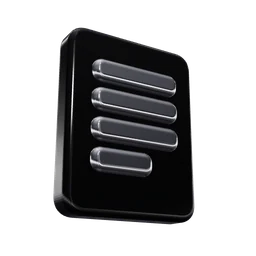
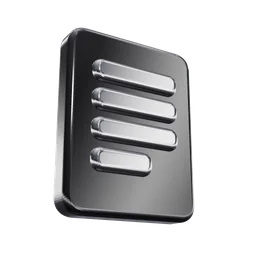
Section symbols: all re-rendered glossy (a streak of light on every face), round bullseye with no bite, person symbol with proper shoulders
Claude-Session: https://claude.ai/code/session_01R4Yd9DXFZUHxv4JskfZizu

Changed region(s): [[0.1875, 0.0938, 0.7812, 0.875]]

diff --git a/src/archive/gloss-scene.html b/src/archive/gloss-scene.html
@@ -1,0 +1,155 @@
+<!doctype html><html><body style="margin:0;background:transparent">
+<canvas id="c" width="512" height="512"></canvas>
+<script src="three.min.js"></script>
+<script>
+const W = 512;
+const renderer = new THREE.WebGLRenderer({ canvas: document.getElementById('c'), antialias: true, alpha: true, preserveDrawingBuffer: true });
+renderer.setPixelRatio(1); renderer.setSize(W, W, false);
+renderer.outputEncoding = THREE.sRGBEncoding; renderer.toneMapping = THREE.ACESFilmicToneMapping; renderer.toneMappingExposure = 1.2;
+renderer.physicallyCorrectLights = true;
+// a studio made of soft light panels, for reflections
+function studio() {
+  const s = new THREE.Scene();
+  s.background = new THREE.Color(0x0b0b0c);
+  const panel = (w, h, x, y, z, ry, rx, c, k) => { const m = new THREE.Mesh(new THREE.PlaneGeometry(w, h), new THREE.MeshBasicMaterial({ color: new THREE.Color(c).multiplyScalar(k), side: THREE.DoubleSide })); m.position.set(x, y, z); m.rotation.y = ry; m.rotation.x = rx; s.add(m); };
+  panel(16, .7, 0, 6, 0, 0, Math.PI / 2, 0xffffff, 7);         // thin top strip
+  panel(16, .5, 0, 5, -3, 0, Math.PI / 2.2, 0xffffff, 5);
+  panel(.9, 12, -7, 0, 3, Math.PI / 2.3, 0, 0xffffff, 5);       // left strip
+  panel(.6, 10, 7, 0, 1, -Math.PI / 2.3, 0, 0xdfe6ff, 3);       // right strip, cool
+  panel(30, 30, 0, -7, 0, 0, -Math.PI / 2, 0x2a2a2e, 1);        // dark grey floor (darker lower reflections)
+  panel(4, 2, 3, 2, -8, 0, 0, 0xfff1e0, 2);                     // small warm card behind
+  return s;
+}
+const pm = new THREE.PMREMGenerator(renderer);
+// the studio as a painted panorama: dark sky, a bright horizon, dark floor and a few softbox strips (the classic chrome look)
+function pano() {
+  const c = document.createElement('canvas'); c.width = 2048; c.height = 1024; const x = c.getContext('2d');
+  const gr = x.createLinearGradient(0, 0, 0, 1024);
+  gr.addColorStop(0, '#c4c4ca'); gr.addColorStop(.22, '#6a6a70'); gr.addColorStop(.42, '#232327'); gr.addColorStop(.49, '#ffffff'); gr.addColorStop(.52, '#d6d6db');
+  gr.addColorStop(.6, '#46464b'); gr.addColorStop(.8, '#1a1a1d'); gr.addColorStop(1, '#55555a');
+  x.fillStyle = gr; x.fillRect(0, 0, 2048, 1024);
+  const strip = (cx, w, y0, y1, a, col) => { const g = x.createLinearGradient(cx - w, 0, cx + w, 0); g.addColorStop(0, 'rgba(0,0,0,0)'); g.addColorStop(.5, col.replace('A', a)); g.addColorStop(1, 'rgba(0,0,0,0)'); x.fillStyle = g; x.fillRect(cx - w, y0, w * 2, y1 - y0); };
+  strip(300, 110, 60, 480, 1, 'rgba(255,255,255,A)'); strip(760, 26, 160, 460, .9, 'rgba(255,255,255,A)');
+  strip(1300, 140, 60, 480, .9, 'rgba(225,232,255,A)'); strip(1750, 40, 200, 470, .7, 'rgba(255,240,224,A)');
+  x.fillStyle = 'rgba(255,255,255,.95)'; x.fillRect(0, 60, 2048, 18);
+  { x.save(); x.translate(1120, 390); x.rotate(-.75); const lg = x.createLinearGradient(-70, 0, 70, 0); lg.addColorStop(0, 'rgba(255,255,255,0)'); lg.addColorStop(.35, 'rgba(255,255,255,.75)'); lg.addColorStop(.5, 'rgba(255,255,255,1)'); lg.addColorStop(.65, 'rgba(255,255,255,.75)'); lg.addColorStop(1, 'rgba(255,255,255,0)'); x.fillStyle = lg; x.fillRect(-70, -300, 140, 600); x.restore(); }   // a diagonal streak of light behind the camera: every face turned to the viewer shows a glossy highlight
+  const t = new THREE.CanvasTexture(c); t.mapping = THREE.EquirectangularReflectionMapping; t.encoding = THREE.sRGBEncoding; return t;
+}
+const envTex = pm.fromEquirectangular(pano()).texture;
+const scene = new THREE.Scene(); scene.environment = envTex;
+const cam = new THREE.PerspectiveCamera(30, 1, .1, 100); cam.position.set(0, 0, 9); cam.lookAt(0, 0, 0);
+const key = new THREE.DirectionalLight(0xffffff, .6); key.position.set(3, 5, 6); scene.add(key);
+const chrome = () => new THREE.MeshPhysicalMaterial({ color: 0xe8e8ea, metalness: 1, roughness: .06, clearcoat: 1, clearcoatRoughness: .05, envMapIntensity: 1.25 });
+const black = () => new THREE.MeshPhysicalMaterial({ color: 0x030303, metalness: .1, roughness: .1, clearcoat: 1, clearcoatRoughness: .03, envMapIntensity: 2.6 });
+const rbox = (w, h, d, r, mat) => { const s = new THREE.Shape(); const x = -w / 2, y = -h / 2;
+  s.moveTo(x + r, y); s.lineTo(x + w - r, y); s.quadraticCurveTo(x + w, y, x + w, y + r); s.lineTo(x + w, y + h - r); s.quadraticCurveTo(x + w, y + h, x + w - r, y + h);
+  s.lineTo(x + r, y + h); s.quadraticCurveTo(x, y + h, x, y + h - r); s.lineTo(x, y + r); s.quadraticCurveTo(x, y, x + r, y);
+  const g = new THREE.ExtrudeGeometry(s, { depth: d, bevelEnabled: true, bevelThickness: .12, bevelSize: .12, bevelSegments: 8, curveSegments: 16 }); g.center(); return new THREE.Mesh(g, mat); };
+const G = new THREE.Group(); scene.add(G);
+const ICONS = {
+  // 01 draft: a pencil
+  draft() { const g = new THREE.Group(); const body = new THREE.Mesh(new THREE.CylinderGeometry(.42, .42, 3.2, 6), black()); g.add(body);
+    const tip = new THREE.Mesh(new THREE.ConeGeometry(.42, .9, 6), chrome()); tip.position.y = -2.05; tip.rotation.z = Math.PI; g.add(tip);
+    const band = new THREE.Mesh(new THREE.CylinderGeometry(.45, .45, .5, 24), chrome()); band.position.y = 1.55; g.add(band);
+    const er = new THREE.Mesh(new THREE.CylinderGeometry(.4, .4, .4, 24), black()); er.position.y = 1.95; g.add(er);
+    g.rotation.z = -.75; return g; },
+  // 02 iterate: two looping arrows
+  loop() { const g = new THREE.Group(); const t = new THREE.Mesh(new THREE.TorusGeometry(1.4, .28, 32, 96, Math.PI * 1.55), chrome()); t.rotation.z = .5; g.add(t);
+    const h = new THREE.Mesh(new THREE.ConeGeometry(.6, .9, 32), chrome()); const a = .5 + Math.PI * 1.55; h.position.set(Math.cos(a) * 1.4, Math.sin(a) * 1.4, 0); h.rotation.z = a; g.add(h); return g; },
+  // 03 delivery: a check mark
+  check() { const g = new THREE.Group(); const a = rbox(.75, 1.7, .5, .3, chrome()); a.position.set(-.75, -.35, 0); a.rotation.z = .8; g.add(a);
+    const b = rbox(.75, 3.2, .5, .3, chrome()); b.position.set(.55, .35, 0); b.rotation.z = -.62; g.add(b); return g; },
+  // tools
+  mail() { const g = new THREE.Group(); g.add(rbox(3.4, 2.3, .4, .25, black()));
+    const f1 = rbox(2.2, .22, .2, .1, chrome()); f1.position.set(-.62, .3, .35); f1.rotation.z = -.62; g.add(f1);
+    const f2 = rbox(2.2, .22, .2, .1, chrome()); f2.position.set(.62, .3, .35); f2.rotation.z = .62; g.add(f2); return g; },
+  calendar() { const g = new THREE.Group(); g.add(rbox(3, 2.8, .45, .3, black())); const top = rbox(3, .7, .5, .25, chrome()); top.position.set(0, 1.05, .05); g.add(top);
+    for (const x of [-.8, .8]) { const r = new THREE.Mesh(new THREE.TorusGeometry(.24, .09, 16, 40), chrome()); r.position.set(x, 1.5, .3); g.add(r); }
+    for (let i = 0; i < 6; i++) { const d = rbox(.42, .42, .15, .1, chrome()); d.position.set(-.85 + (i % 3) * .85, .05 - Math.floor(i / 3) * .7, .35); g.add(d); } return g; },
+  card() { const g = new THREE.Group(); g.add(rbox(3.6, 2.3, .22, .25, black())); const s = rbox(3.6, .45, .1, .02, chrome()); s.position.set(0, .45, .2); g.add(s);
+    const chip = rbox(.6, .45, .1, .08, chrome()); chip.position.set(-1.1, -.35, .22); g.add(chip); g.rotation.x = -.25; return g; },
+  signup() { const g = new THREE.Group(); const t = new THREE.Mesh(new THREE.TorusGeometry(1.25, .26, 32, 96, Math.PI * 1.75), chrome()); t.rotation.z = -.3; g.add(t);
+    const i = new THREE.Mesh(new THREE.TorusGeometry(.5, .24, 32, 64), chrome()); g.add(i); const tail = rbox(.48, 1.1, .48, .2, chrome()); tail.position.set(.98, -.2, 0); g.add(tail); return g; },
+  pin() { const g = new THREE.Group(); const s = new THREE.Mesh(new THREE.SphereGeometry(1.1, 64, 48), chrome()); s.position.y = .5; g.add(s);
+    const c = new THREE.Mesh(new THREE.ConeGeometry(.82, 1.9, 64), chrome()); c.position.y = -.85; c.rotation.z = Math.PI; g.add(c);
+    const h = new THREE.Mesh(new THREE.SphereGeometry(.4, 48, 32), black()); h.position.set(0, .5, .85); g.add(h); return g; },
+  gear() { const g = new THREE.Group(); const disc = new THREE.Mesh(new THREE.CylinderGeometry(1.25, 1.25, .55, 64), chrome()); disc.rotation.x = Math.PI / 2; g.add(disc);
+    for (let i = 0; i < 8; i++) { const t = rbox(.55, .6, .55, .1, chrome()); const a = i / 8 * Math.PI * 2; t.position.set(Math.cos(a) * 1.4, Math.sin(a) * 1.4, -.27); t.rotation.z = a - Math.PI / 2; g.add(t); }
+    const hole = new THREE.Mesh(new THREE.CylinderGeometry(.48, .48, .62, 48), black()); hole.rotation.x = Math.PI / 2; g.add(hole); return g; },
+  coin() { const g = new THREE.Group(); const c = new THREE.Mesh(new THREE.CylinderGeometry(1.5, 1.5, .4, 72), chrome()); c.rotation.x = Math.PI / 2; g.add(c);
+    const rim = new THREE.Mesh(new THREE.TorusGeometry(1.5, .1, 16, 72), chrome()); g.add(rim);
+    const face = new THREE.Mesh(new THREE.CylinderGeometry(1.15, 1.15, .44, 72), black()); face.rotation.x = Math.PI / 2; g.add(face);
+    const s1 = new THREE.Mesh(new THREE.TorusGeometry(.32, .1, 16, 48, Math.PI * 1.3), chrome()); s1.position.set(0, .28, .25); s1.rotation.z = .4; g.add(s1);
+    const s2 = new THREE.Mesh(new THREE.TorusGeometry(.32, .1, 16, 48, Math.PI * 1.3), chrome()); s2.position.set(0, -.28, .25); s2.rotation.z = .4 + Math.PI; g.add(s2);
+    const bar = rbox(.12, 1.5, .12, .05, chrome()); bar.position.set(0, 0, .27); g.add(bar); g.rotation.y = -.35; return g; },
+  sparkle() { const g = new THREE.Group(); const sh = new THREE.Shape(); const R = 1.6, r = .38;
+    for (let i = 0; i < 8; i++) { const a = i / 8 * Math.PI * 2 + Math.PI / 2, rr = i % 2 ? r : R; const x = Math.cos(a) * rr, y = Math.sin(a) * rr; i ? sh.lineTo(x, y) : sh.moveTo(x, y); } sh.closePath();
+    const geo = new THREE.ExtrudeGeometry(sh, { depth: .35, bevelEnabled: true, bevelThickness: .14, bevelSize: .1, bevelSegments: 6 }); geo.center(); g.add(new THREE.Mesh(geo, chrome()));
+    const sm = new THREE.Mesh(geo.clone().scale(.38, .38, .38), black()); sm.position.set(1.25, 1.1, .2); g.add(sm); return g; },
+  shield() { const g = new THREE.Group(); const sh = new THREE.Shape(); sh.moveTo(0, 1.7); sh.quadraticCurveTo(1.0, 1.35, 1.45, 1.35); sh.lineTo(1.45, .1); sh.quadraticCurveTo(1.35, -1.2, 0, -1.8); sh.quadraticCurveTo(-1.35, -1.2, -1.45, .1); sh.lineTo(-1.45, 1.35); sh.quadraticCurveTo(-1.0, 1.35, 0, 1.7);
+    const geo = new THREE.ExtrudeGeometry(sh, { depth: .45, bevelEnabled: true, bevelThickness: .16, bevelSize: .12, bevelSegments: 8, curveSegments: 24 }); geo.center(); g.add(new THREE.Mesh(geo, black()));
+    const a = rbox(.32, .8, .25, .12, chrome()); a.position.set(-.32, -.12, .42); a.rotation.z = .8; g.add(a); const b = rbox(.32, 1.45, .25, .12, chrome()); b.position.set(.28, .12, .42); b.rotation.z = -.62; g.add(b); return g; },
+  chain() { const g = new THREE.Group(); const l1 = new THREE.Mesh(new THREE.TorusGeometry(.95, .26, 24, 72), chrome()); l1.scale.set(1.25, .75, 1); l1.position.x = -.75; l1.rotation.z = .5; g.add(l1);
+    const l2 = new THREE.Mesh(new THREE.TorusGeometry(.95, .26, 24, 72), black()); l2.scale.set(1.25, .75, 1); l2.position.x = .75; l2.rotation.set(Math.PI / 2.4, 0, .5); g.add(l2); return g; },
+  userplus() { const g = new THREE.Group(); const head = new THREE.Mesh(new THREE.SphereGeometry(.62, 64, 48), chrome()); head.position.set(-.45, .78, 0); g.add(head);
+    // shoulders: a whole rounded body (no flat cut), squashed and set below the head
+    const body = new THREE.Mesh(new THREE.LatheGeometry([[0, -.55], [.95, -.55], [1.12, -.45], [1.2, -.22], [1.12, .12], [.88, .42], [.5, .6], [0, .66]].map(([x, y]) => new THREE.Vector2(x, y)), 96), black()); body.scale.z = .62; body.position.set(-.45, -.62, 0); g.add(body);
+    const p1 = rbox(1.1, .32, .32, .12, chrome()); p1.position.set(1.2, .05, .3); g.add(p1); const p2 = rbox(.32, 1.1, .32, .12, chrome()); p2.position.set(1.2, .05, .3); g.add(p2); return g; },
+  ceo() { const g = new THREE.Group(); const r = .34, mat = chrome();
+    const tube = pts => { const c = new THREE.CatmullRomCurve3(pts.map(([x, y]) => new THREE.Vector3(x, y, 0)), false, 'catmullrom', .2);
+      g.add(new THREE.Mesh(new THREE.TubeGeometry(c, 96, r, 32, false), mat));
+      for (const q of [pts[0], pts[pts.length - 1]]) { const sp = new THREE.Mesh(new THREE.SphereGeometry(r, 32, 24), mat); sp.position.set(q[0], q[1], 0); g.add(sp); } };
+    const arc = (cx, cy, rx, ry, a0, a1, n = 24) => Array.from({ length: n + 1 }, (_, i) => { const a = a0 + (a1 - a0) * i / n; return [cx + Math.cos(a) * rx, cy + Math.sin(a) * ry]; });
+    tube(arc(-2.35, 0, .78, .95, .75, Math.PI * 2 - .75));                                   // C
+    { const sp = new THREE.Mesh(new THREE.SphereGeometry(1, 64, 48), mat); sp.scale.set(r * 1.12, 1.2, r * 1.12); sp.position.set(-.6, 0, 0); g.add(sp); } tube([[-.6, .95], [-.02, .95]]); tube([[-.6, -.95], [-.02, -.95]]);   // E
+    tube([[-.6, 0], [-.12, 0]]);                                                               // E middle
+    tube(arc(1.55, 0, .82, .95, 0, Math.PI * 2, 48));                                          // O
+    g.scale.setScalar(1); g.position.x = .42; return g; },
+
+  // ---- more symbols for section labels ----
+  bolt() { const g = new THREE.Group(); const sh = new THREE.Shape(); sh.moveTo(.35, 1.9); sh.lineTo(-1.05, -.2); sh.lineTo(-.05, -.2); sh.lineTo(-.45, -1.9); sh.lineTo(1.05, .35); sh.lineTo(.05, .35); sh.closePath();
+    const geo = new THREE.ExtrudeGeometry(sh, { depth: .45, bevelEnabled: true, bevelThickness: .15, bevelSize: .1, bevelSegments: 6 }); geo.center(); g.add(new THREE.Mesh(geo, chrome())); return g; },
+  star() { const g = new THREE.Group(); const sh = new THREE.Shape(); for (let i = 0; i < 10; i++) { const a = i / 10 * Math.PI * 2 + Math.PI / 2, rr = i % 2 ? .78 : 1.75; const x = Math.cos(a) * rr, y = Math.sin(a) * rr; i ? sh.lineTo(x, y) : sh.moveTo(x, y); } sh.closePath();
+    const geo = new THREE.ExtrudeGeometry(sh, { depth: .4, bevelEnabled: true, bevelThickness: .18, bevelSize: .12, bevelSegments: 6 }); geo.center(); g.add(new THREE.Mesh(geo, chrome())); return g; },
+  globe() { const g = new THREE.Group(); g.add(new THREE.Mesh(new THREE.SphereGeometry(1.45, 64, 48), black()));
+    for (const r of [0, Math.PI / 3, -Math.PI / 3]) { const m = new THREE.Mesh(new THREE.TorusGeometry(1.5, .07, 16, 96), chrome()); m.rotation.y = r; g.add(m); }
+    for (const y of [-.75, 0, .75]) { const rr = Math.sqrt(1.5 * 1.5 - y * y); const m = new THREE.Mesh(new THREE.TorusGeometry(rr, .07, 16, 96), chrome()); m.rotation.x = Math.PI / 2; m.position.y = y; g.add(m); } return g; },
+  chat() { const g = new THREE.Group(); g.add(rbox(3.4, 2.3, .45, .55, black())); const tail = new THREE.Mesh(new THREE.ConeGeometry(.42, .9, 4), black()); tail.position.set(-.95, -1.35, 0); tail.rotation.z = Math.PI + .5; g.add(tail);
+    for (const x of [-.85, 0, .85]) { const d = new THREE.Mesh(new THREE.SphereGeometry(.27, 32, 24), chrome()); d.position.set(x, 0, .4); g.add(d); } return g; },
+  layers() { const g = new THREE.Group(); for (let i = 0; i < 3; i++) { const l = rbox(2.6, 2.6, .25, .35, i === 1 ? black() : chrome()); l.rotation.x = -1.05; l.rotation.z = .785; l.position.y = (1 - i) * .75; g.add(l); } return g; },
+  clock() { const g = new THREE.Group(); const f = new THREE.Mesh(new THREE.CylinderGeometry(1.55, 1.55, .4, 72), black()); f.rotation.x = Math.PI / 2; g.add(f);
+    const rim = new THREE.Mesh(new THREE.TorusGeometry(1.55, .17, 24, 96), chrome()); g.add(rim);
+    const h1 = rbox(.2, .95, .15, .08, chrome()); h1.position.set(0, .42, .3); g.add(h1); const h2 = rbox(.2, 1.15, .15, .08, chrome()); h2.position.set(.42, -.18, .3); h2.rotation.z = -2.1; g.add(h2);
+    const hub = new THREE.Mesh(new THREE.SphereGeometry(.18, 24, 16), chrome()); hub.position.z = .3; g.add(hub); return g; },
+  target() { const g = new THREE.Group();
+    // a glossy black disc with a rounded chrome rim, a chrome ring and a domed chrome bullseye (all rounded, so they all catch the light)
+    const face = new THREE.Mesh(new THREE.CylinderGeometry(1.5, 1.5, .34, 96), black()); face.rotation.x = Math.PI / 2; g.add(face);
+    const rim = new THREE.Mesh(new THREE.TorusGeometry(1.5, .2, 32, 128), chrome()); g.add(rim);
+    const ring = new THREE.Mesh(new THREE.TorusGeometry(.9, .16, 32, 128), chrome()); ring.position.z = .17; g.add(ring);
+    const dome = new THREE.Mesh(new THREE.SphereGeometry(.42, 64, 48), chrome()); dome.scale.z = .7; dome.position.z = .17; g.add(dome); return g; },
+  bars() { const g = new THREE.Group(); [[.9, -1.05], [1.6, 0], [2.6, 1.05]].forEach(([h, x], i) => { const b = rbox(.72, h, .7, .14, i === 2 ? chrome() : (i ? chrome() : black())); b.position.set(x, -1.2 + h / 2, 0); g.add(b); });
+    const base = rbox(3.6, .18, .7, .06, black()); base.position.y = -1.35; g.add(base); return g; },
+  lock() { const g = new THREE.Group(); g.add(rbox(2.6, 2.1, .7, .3, black())); const sh = new THREE.Mesh(new THREE.TorusGeometry(.82, .22, 24, 64, Math.PI), chrome()); sh.position.y = 1.05; g.add(sh);
+    for (const x of [-.82, .82]) { const l = new THREE.Mesh(new THREE.CylinderGeometry(.22, .22, .5, 24), chrome()); l.position.set(x, .85, 0); g.add(l); }
+    const kh = new THREE.Mesh(new THREE.CylinderGeometry(.24, .24, .2, 32), chrome()); kh.rotation.x = Math.PI / 2; kh.position.set(0, .05, .42); g.add(kh); const ks = rbox(.18, .5, .2, .06, chrome()); ks.position.set(0, -.3, .42); g.add(ks); g.position.y = -.35; return g; },
+  rocket() { const g = new THREE.Group(); const body = new THREE.Mesh(new THREE.CylinderGeometry(.62, .62, 2.2, 48), chrome()); g.add(body);
+    const nose = new THREE.Mesh(new THREE.ConeGeometry(.62, 1.1, 48), black()); nose.position.y = 1.65; g.add(nose);
+    const win = new THREE.Mesh(new THREE.SphereGeometry(.26, 32, 24), black()); win.position.set(0, .35, .55); g.add(win);
+    for (const a of [0, 2.09, 4.19]) { const f = rbox(.15, .9, .7, .05, black()); f.position.set(Math.sin(a) * .62, -.85, Math.cos(a) * .62); f.rotation.y = a; g.add(f); }
+    const fl = new THREE.Mesh(new THREE.ConeGeometry(.38, .7, 32), chrome()); fl.position.y = -1.45; fl.rotation.z = Math.PI; g.add(fl); g.rotation.z = -.75; return g; },
+  cursor() { const g = new THREE.Group(); const sh = new THREE.Shape(); sh.moveTo(-1.1, 1.7); sh.lineTo(-1.1, -1.25); sh.lineTo(-.35, -.55); sh.lineTo(.2, -1.75); sh.lineTo(.75, -1.5); sh.lineTo(.2, -.35); sh.lineTo(1.2, -.35); sh.closePath();
+    const geo = new THREE.ExtrudeGeometry(sh, { depth: .4, bevelEnabled: true, bevelThickness: .14, bevelSize: .09, bevelSegments: 6 }); geo.center(); g.add(new THREE.Mesh(geo, chrome())); return g; },
+  doc() { const g = new THREE.Group(); g.add(rbox(2.5, 3.2, .3, .25, black())); for (const [y, w] of [[.9, 1.6], [.35, 1.6], [-.2, 1.6], [-.75, 1.0]]) { const l = rbox(w, .2, .12, .08, chrome()); l.position.set((w - 1.6) / 2, y, .22); g.add(l); } return g; },
+  question() { const g = new THREE.Group(); const arc = new THREE.Mesh(new THREE.TorusGeometry(.85, .3, 32, 72, Math.PI * 1.35), chrome()); arc.position.y = .75; arc.rotation.z = -.55; g.add(arc);
+    const stem = rbox(.6, .85, .6, .25, chrome()); stem.position.set(0, -.45, 0); g.add(stem); const dot = new THREE.Mesh(new THREE.SphereGeometry(.36, 32, 24), chrome()); dot.position.y = -1.45; g.add(dot); return g; },
+  // the floating shape: a twisted chrome ring
+  blob() { const m = new THREE.Mesh(new THREE.TorusKnotGeometry(1.25, .48, 360, 64, 2, 3), new THREE.MeshPhysicalMaterial({ color: 0xffffff, metalness: 1, roughness: .05, clearcoat: 1, clearcoatRoughness: .03, envMapIntensity: 1.5 })); return m; },
+};
+window.show = (name, ry, rx, scale) => {
+  while (G.children.length) G.remove(G.children[0]);
+  const o = ICONS[name](); G.add(o); G.rotation.set(rx ?? -.25, ry ?? .5, 0); G.scale.setScalar(scale || 1);
+  const ortho = new THREE.OrthographicCamera(-3.4, 3.4, 3.4, -3.4, .1, 100); ortho.position.set(0, 0, 9); ortho.lookAt(0, 0, 0);
+  renderer.render(scene, name === 'ceo' ? ortho : cam); return document.getElementById('c').toDataURL('image/png');
+};
+window.ready = true;
+</script></body></html>
